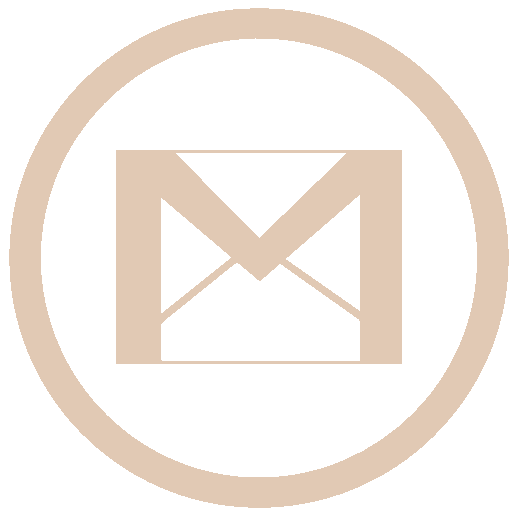
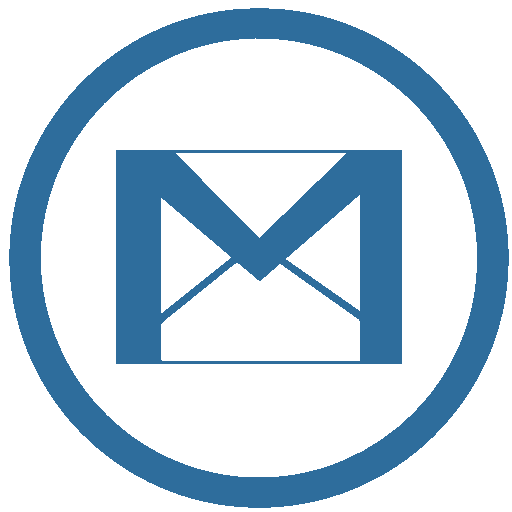
modified:   JevKrayPersonalSite/wwwroot/css/site.css 	modified:   JevKrayPersonalSite/wwwroot/pictures/git.png 	modified:   JevKrayPersonalSite/wwwroot/pictures/gmail.png 	modified:   JevKrayPersonalSite/wwwroot/pictures/tg.png

Changed region(s): [[0.0, 0.0, 1.0, 1.0], [0.2188, 0.2812, 0.8125, 0.7188]]

diff --git a/JevKrayPersonalSite/wwwroot/css/site.css b/JevKrayPersonalSite/wwwroot/css/site.css
@@ -178,10 +178,10 @@
 
 
   .underline-one-text {
-    background: linear-gradient(0deg, #000000, #e1c9b4);
+    background: linear-gradient(0deg, #2e6d9c, #e1c9b4);
     -webkit-background-clip: text;
     -webkit-text-fill-color: transparent;
-    color: #0B2349;
+    color: #2e6d9c;
 
       position: relative; 
       cursor: pointer;
@@ -192,7 +192,7 @@
   }
 
   .underline-one-text:hover {
-    color: #e1c9b4;
+    color: #2e6d9c;
   }
 
   .underline-one-text:after {
@@ -203,7 +203,7 @@
       bottom: -3px;
       width: 0;
       height: 2px; /* Высота линии */
-      background-color:#e1c9b4; /* Цвет подчеркивания при исчезании линии*/
+      background-color:#2e6d9c; /* Цвет подчеркивания при исчезании линии*/
       transition: width 0.5s; /* Время эффекта */
   }
 
@@ -215,7 +215,7 @@
       left: 0;
       bottom: -3px;
       height: 2px; /* Высота линии */
-      background-color:#e1c9b4; /* Цвет подчеркивания при появлении линии*/
+      background-color:#2e6d9c; /* Цвет подчеркивания при появлении линии*/
       transition: width 0.5s;  /* Время эффекта */
   }
 
@@ -236,6 +236,7 @@
   }
 
   .style-name-am {
+    color: #2e6d9c;
     margin: 1rem 0 0 0;
     font-weight: 600;
     font-size: 400%;
